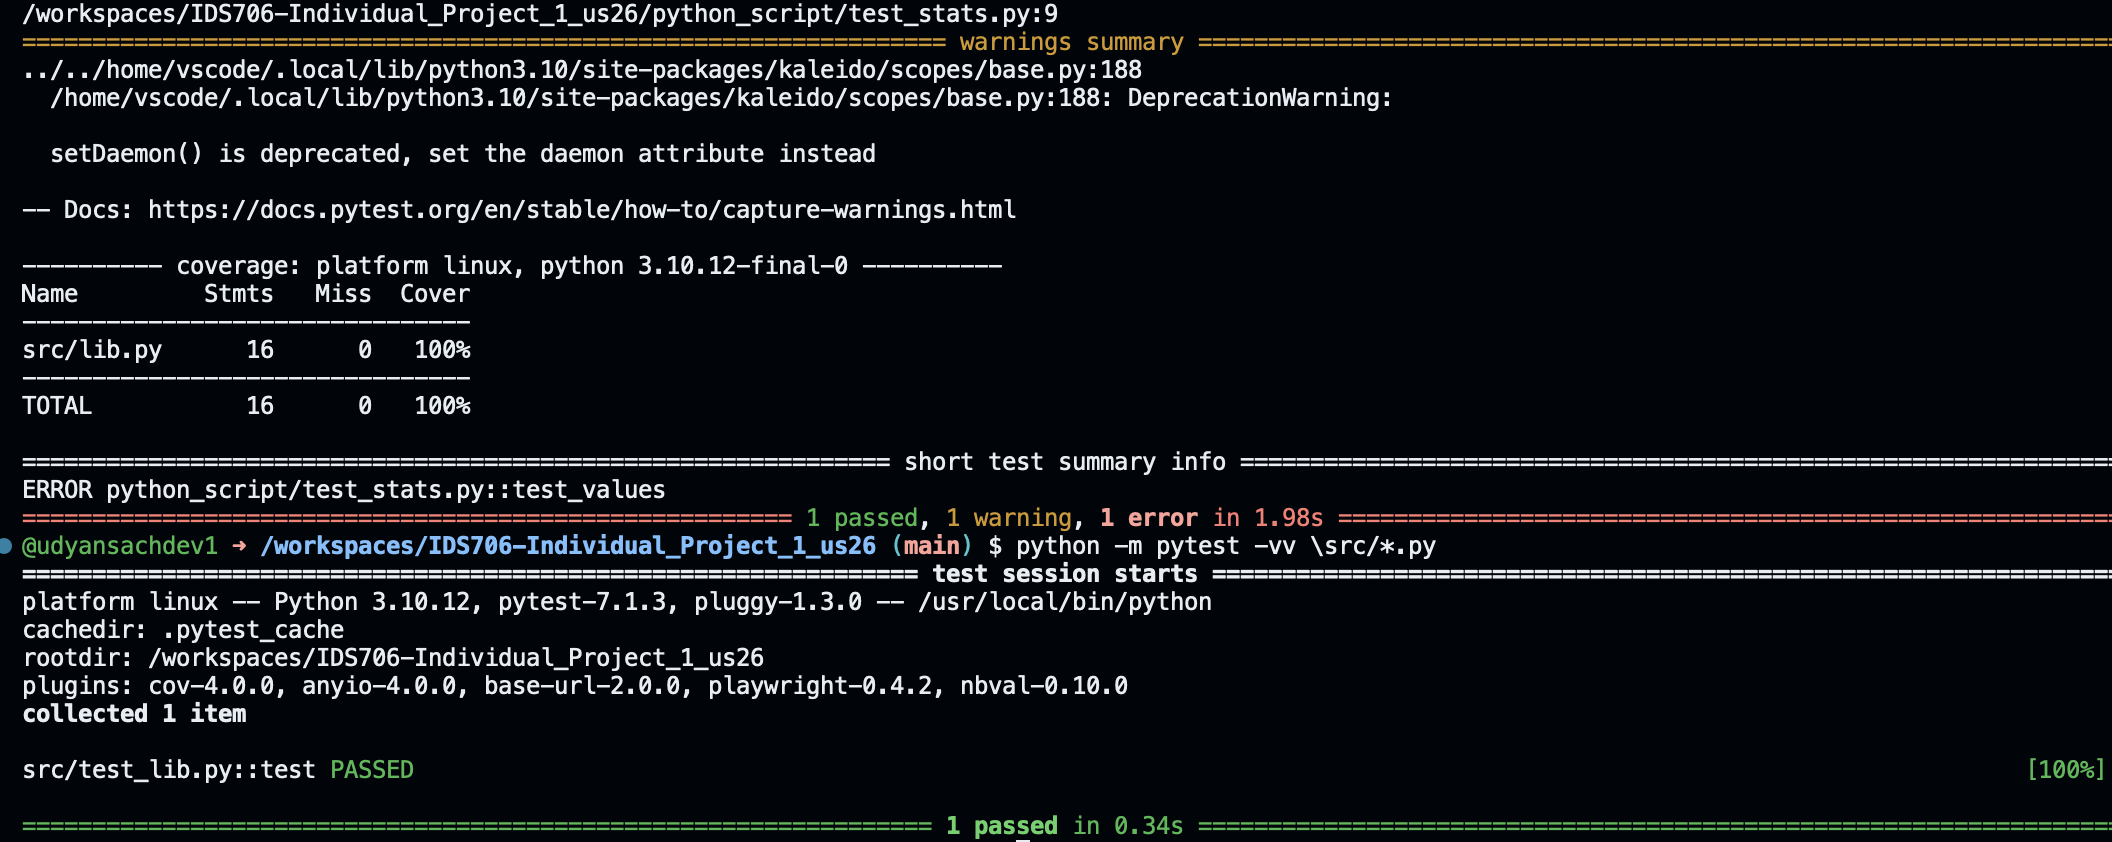
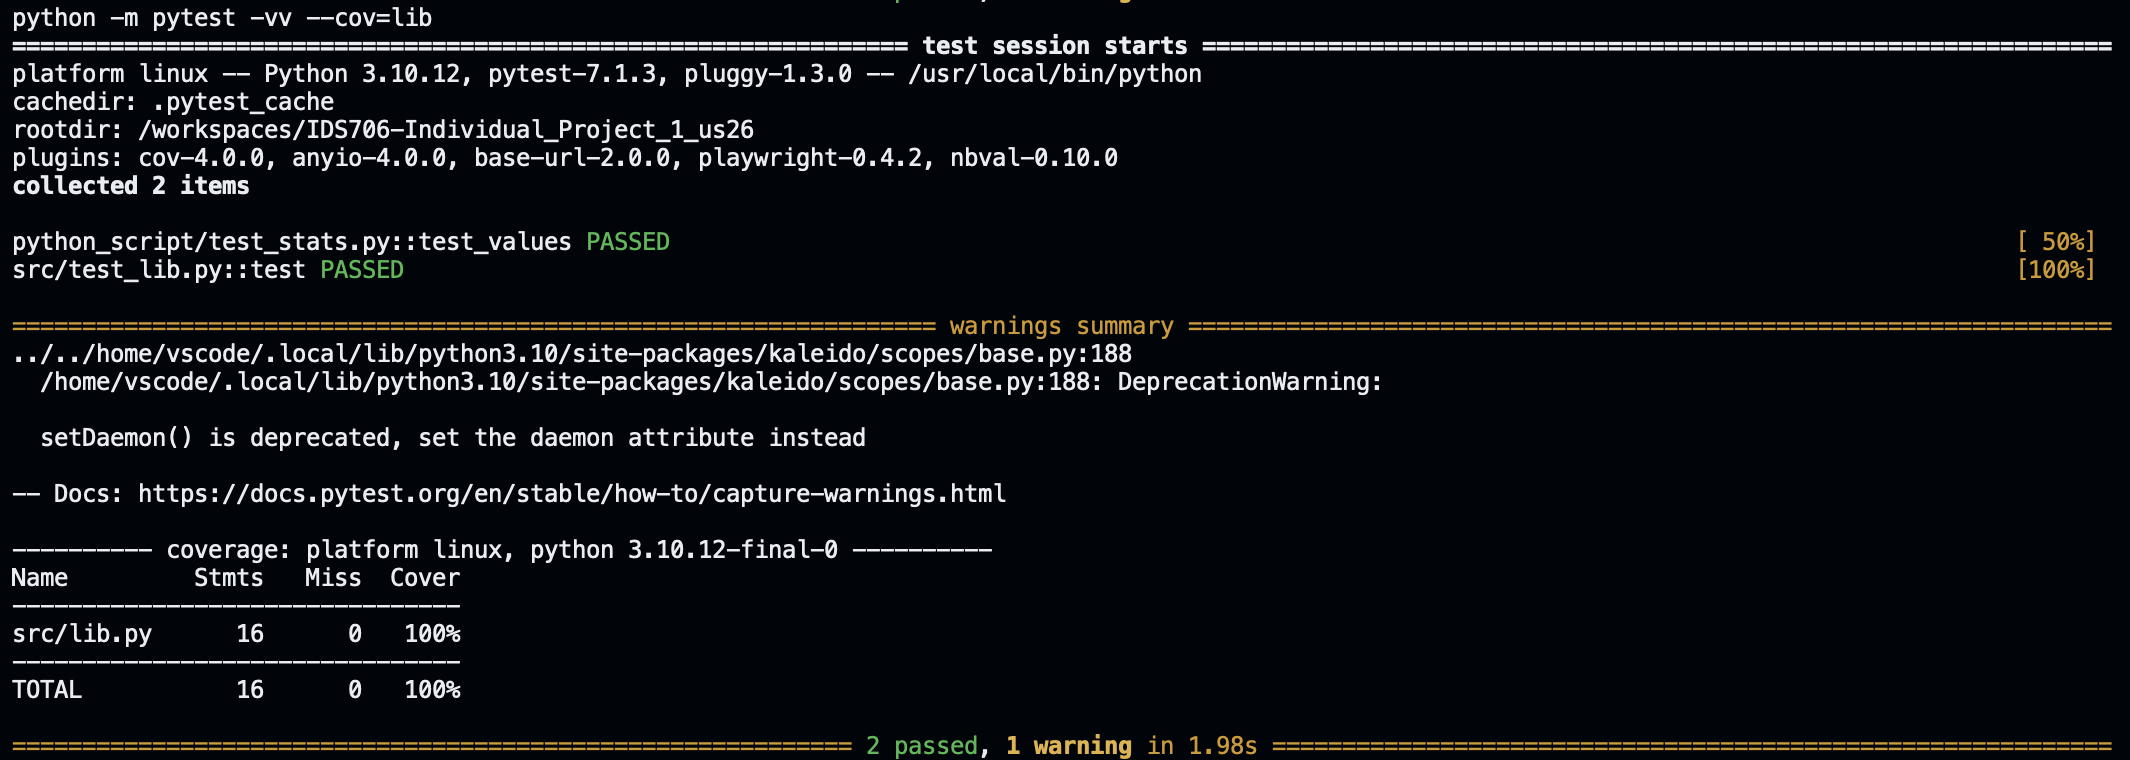
made changes

diff --git a/python_script/test_stats.py b/python_script/test_stats.py
@@ -6,12 +6,12 @@ url = "https://github.com/nogibjj/IDS706-Individual_Project_1_us26/blob/main/Ran
 # Calculating values for "No of student per staff"
 data = pl.read_csv(url)
 
-def test_values(data):
+def test_values():
     assert (stats_mean(data)) == 16.72500000000001
     assert (stats_median(data)) == 13.5
     assert (stats_mode(data)[0]) == 10.3
     assert (stats_std(data)) == 10.557828968365255
-    return
 
+test_values()
 
 

diff --git a/README.md b/README.md
@@ -45,13 +45,22 @@
       - test: Tested by using nbval plugin for pytest
               Tested test_script.py, test_lib.py and the files in jupyter_notebook and python_script
 
+	            
+              python -m py.test --nbval jupyter_notebook/*.ipynb - 
 <p align="center">
   <img width="600" src="https://github.com/nogibjj/IDS706-Individual_Project_1_us26/blob/main/Image/test1.png" alt="install">
 </p>
 
+            python -m pytest -vv --cov=lib
 <p align="center">
   <img width="600" src="https://github.com/nogibjj/IDS706-Individual_Project_1_us26/blob/main/Image/test2.png" alt="install">
 </p>
+
+          	python -m pytest -vv --cov=python_script python_script/*.py
+<p align="center">
+  <img width="600" src="https://github.com/nogibjj/IDS706-Individual_Project_1_us26/blob/main/Image/test3.png" alt="install">
+</p>
+
 
       - format: using black formatter and nbqa plugin for .ipynb files
 
